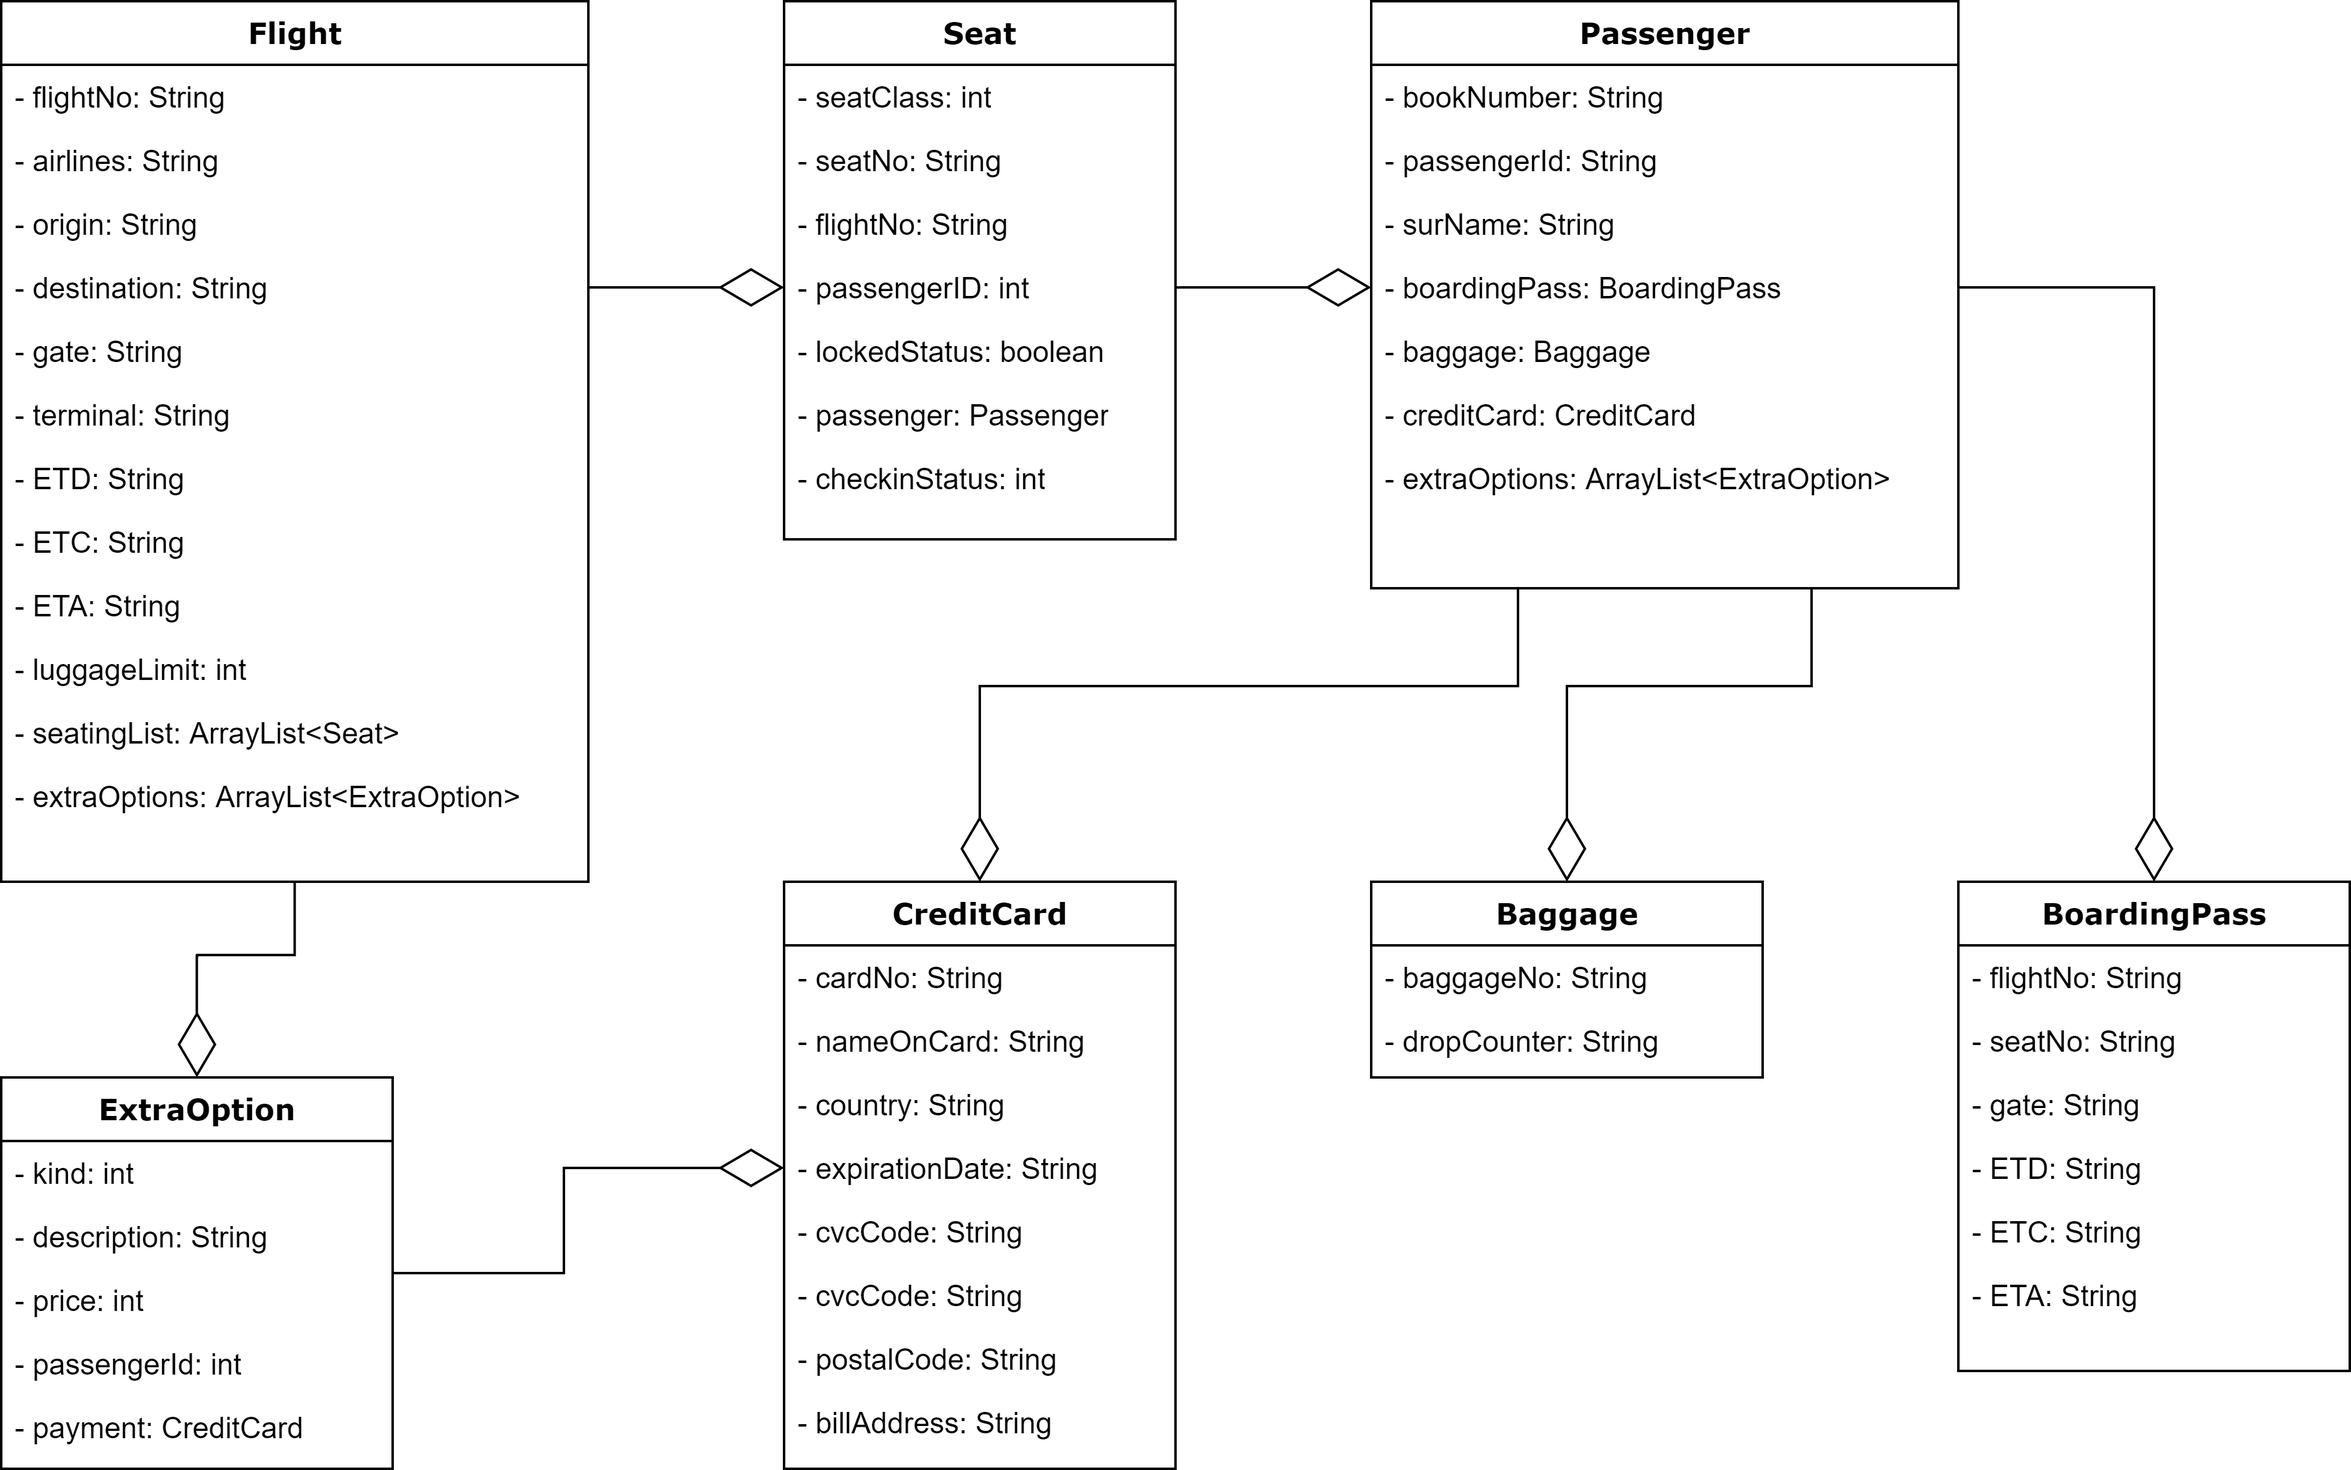
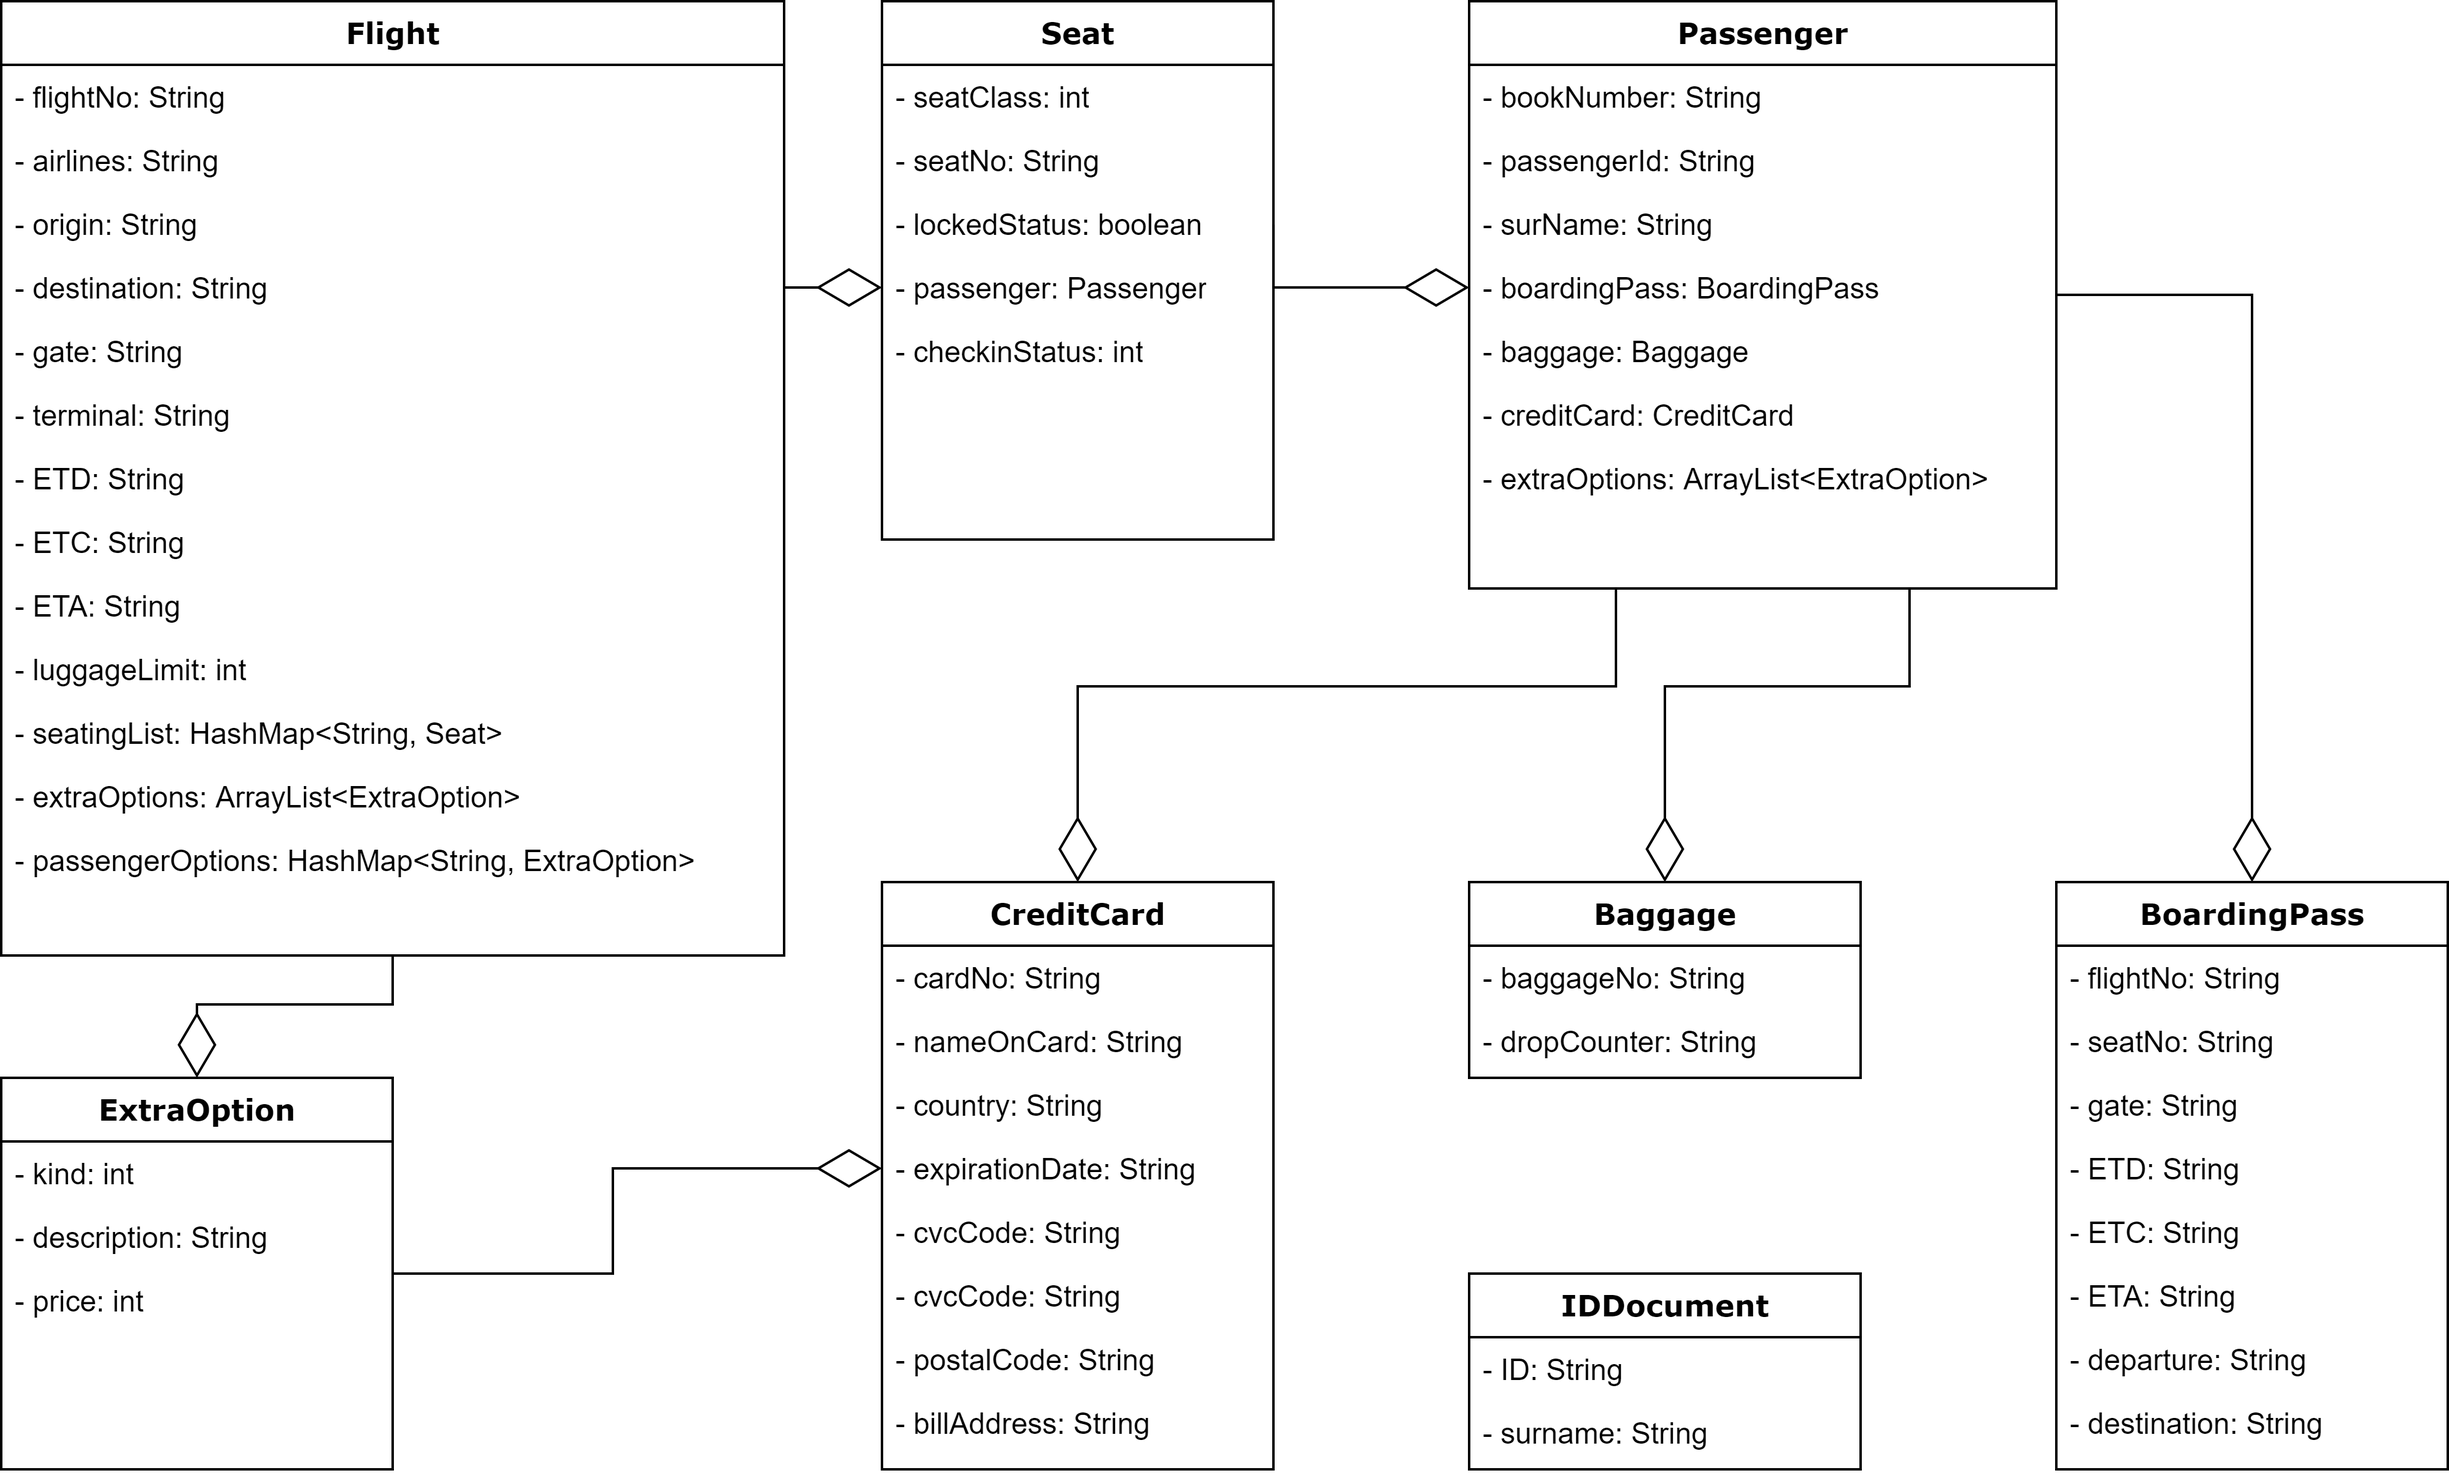
Iteration 2 Modification - On April 16th by Jiacheng Li 1. Modify DataCreation class. 2. Modify Flight class and ExtraOption class.

diff --git a/src/main/java/DataBase/DataCreation/DataCreation.java b/src/main/java/DataBase/DataCreation/DataCreation.java
@@ -15,7 +15,7 @@ import java.util.HashMap;
  *
  * @since April 4th, 2022
  * @author Ruizhe Ou, Jiacheng Li
- * @version 0.2
+ * @version 0.3
  */
 public class DataCreation {
 
@@ -35,6 +35,8 @@ public class DataCreation {
     String[] ETCArr = {"07-09-2022 09:46:00", "06-09-2022 08:46:00", "07-09-2022 08:46:00", "06-09-2022 21:20:00"};
     String[] ETAArr = {"07-09-2022 08:00:00", "06-09-2022 10:00:00", "08-09-2022 09:00:00", "06-09-2022 09:20:00"};
     int[] luggageLimitList = {60, 40, 30, 50, 30};
+    String[] passengerIdArr = {"215200", "215201", "215202", "215203", "215204", "215205", "215206", "215207", "215208", "215209"};
+    HashMap<String, ExtraOption> passengerOptions = new HashMap<>();
 
     // Seating Information
     HashMap<String, Seat> seatingLists = new HashMap<>();
@@ -43,8 +45,17 @@ public class DataCreation {
     ArrayList<ExtraOption> extraOptionLists = new ArrayList<>();
 
     private void creatPassengers(){
+        ArrayList<CreditCard> creditCardArr = new ArrayList<>();
+        creditCardArr.add(new CreditCard("1234 5678 9123 4567"));
+        creditCardArr.add(new CreditCard("1232 5678 9123 4567"));
+        creditCardArr.add(new CreditCard("1134 5678 9123 4567"));
+        creditCardArr.add(new CreditCard("2234 5678 9123 4567"));
+        creditCardArr.add(new CreditCard("4234 5678 9123 4567"));
+        creditCardArr.add(new CreditCard("1634 5678 9123 4567"));
+
+
         for (int i = 0; i < 6; i++){
-            pDB.storePassenger(new Passenger(bookNumberArr[i], pIDArr[i], nameArr[i], new BoardingPass(), new Baggage(), new CreditCard(), new ArrayList<>()));
+            pDB.storePassenger(new Passenger(bookNumberArr[i], pIDArr[i], nameArr[i], new BoardingPass(), new Baggage(), creditCardArr.get(i), new ArrayList<>()));
         }
     }
 
@@ -55,21 +66,21 @@ public class DataCreation {
     public void createSeats() {
         int[] classArr = {2, 2, 1, 1, 0, 0, 0, 0, 0, 0};
         String[] noArr = {"E01", "E02", "E03", "E04", "E05", "E06", "E07", "E08", "E09", "E10"};
-        boolean[] lockStatusArr = {true, false, true, false, true, false, true, true, true, true};
+        boolean[] lockStatusArr = {true, false, true, false, true, false, true, true, true, false};
 
         ArrayList<Passenger> passengerArr = new ArrayList<>();
         passengerArr.add(new Passenger("215200"));
         passengerArr.add(new Passenger());
+        passengerArr.add(new Passenger("215201"));
+        passengerArr.add(new Passenger());
         passengerArr.add(new Passenger("215202"));
         passengerArr.add(new Passenger());
+        passengerArr.add(new Passenger("215203"));
         passengerArr.add(new Passenger("215204"));
+        passengerArr.add(new Passenger("215205"));
         passengerArr.add(new Passenger());
-        passengerArr.add(new Passenger("215206"));
-        passengerArr.add(new Passenger("215207"));
-        passengerArr.add(new Passenger("215208"));
-        passengerArr.add(new Passenger("215209"));
 
-        int[] checkInArr = {0, 1, 0, 1, -1, 1, 0, 0, 1, 1};
+        int[] checkInArr = {0, -1, 0, -1, -1, 1, 0, 0, 1, -1};
 
         for(int i = 0; i < 10; i++){
             this.seatingLists.put(noArr[i], new Seat(
@@ -88,10 +99,10 @@ public class DataCreation {
      *
      */
     public void createOptionLists(){
-        int[] kindArr = {0,1,0,0,1,1,0,1,0,1};
+        int[] kindArr = {0,0,1,1,1,1,1,1,1,1};
         String[] descriptionArr = {
-            "Rice Noodles",
-            "Fried Chicken",
+            "Baby Seat",
+            "Elder Seat",
             "Hot Dogs",
             "British Breakfast",
             "Hamburger",
@@ -102,26 +113,12 @@ public class DataCreation {
             "Salad"
         };
         int[] priceArr = {1,2,3,4,5,6,7,8,9,10};
-        String[] passengerIdArr = {"215200", "215201", "215202", "215203", "215204", "215205", "215206", "215207", "215208", "215209"};
-        ArrayList<CreditCard> creditCardArr = new ArrayList<>();
-        creditCardArr.add(new CreditCard("1234 5678 9123 4567"));
-        creditCardArr.add(new CreditCard("1232 5678 9123 4567"));
-        creditCardArr.add(new CreditCard("1134 5678 9123 4567"));
-        creditCardArr.add(new CreditCard("2234 5678 9123 4567"));
-        creditCardArr.add(new CreditCard("4234 5678 9123 4567"));
-        creditCardArr.add(new CreditCard("1634 5678 9123 4567"));
-        creditCardArr.add(new CreditCard("1934 5678 9123 4567"));
-        creditCardArr.add(new CreditCard("1254 5678 9123 4567"));
-        creditCardArr.add(new CreditCard("1214 5678 9123 4567"));
-        creditCardArr.add(new CreditCard("1124 5678 9123 4567"));
 
         for(int i = 0; i < 10; i++){
             this.extraOptionLists.add(new ExtraOption(
                 kindArr[i],
                 descriptionArr[i],
-                priceArr[i],
-                passengerIdArr[i],
-                creditCardArr.get(i)
+                priceArr[i]
             ));
         }
     }
@@ -131,6 +128,9 @@ public class DataCreation {
      *
      */
     private void createFlights(){
+        for(int j = 0; j < 4; j++){
+            passengerOptions.put(pIDArr[j], extraOptionLists.get(j));
+        }
 
         createOptionLists();
         createSeats();
@@ -148,7 +148,8 @@ public class DataCreation {
                     ETAArr[i],
                     luggageLimitList[i],
                     this.seatingLists,
-                    this.extraOptionLists
+                    this.extraOptionLists,
+                    this.passengerOptions
             ));
         }
     }

diff --git a/src/main/java/Flight/Flight.java b/src/main/java/Flight/Flight.java
@@ -7,7 +7,7 @@ import java.util.*;
  * This is the basic Flight information class
  *
  * @author Jiacheng Li
- * @version 1.3 April 16th, 2022
+ * @version 1.4 April 16th, 2022
  */
 public class Flight implements Serializable{
     /**
@@ -73,13 +73,19 @@ public class Flight implements Serializable{
      * Default Value: empty ArrayList
      */
     private ArrayList<ExtraOption> extraOptions = new ArrayList<>();
+    /**
+     * Records of all passenger-ordered extra options of a certain flight.<br/>
+     * (Key, Value) -> (passengerId, Seat)<br/><br/>
+     * Default Value: empty HashMap
+     */
+    private HashMap<String, ExtraOption> passengerOptions = new HashMap<>();
 
     /**
      * Default constructor with no parameters.
      */
     public Flight(){}
 
-    public Flight(String flightNo, String airlines, String departure, String destination, String gate, String terminal, String ETD, String ETC, String ETA, int luggageLimit, HashMap<String, Seat> seatingList, ArrayList<ExtraOption> extraOptions) {
+    public Flight(String flightNo, String airlines, String departure, String destination, String gate, String terminal, String ETD, String ETC, String ETA, int luggageLimit, HashMap<String, Seat> seatingList, ArrayList<ExtraOption> extraOptions, HashMap<String, ExtraOption> passengerOptions) {
         this.flightNo = flightNo;
         this.airlines = airlines;
         this.departure = departure;
@@ -92,6 +98,7 @@ public class Flight implements Serializable{
         this.luggageLimit = luggageLimit;
         this.seatingList = seatingList;
         this.extraOptions = extraOptions;
+        this.passengerOptions = passengerOptions;
     }
 
     /**
@@ -109,6 +116,7 @@ public class Flight implements Serializable{
     public int getLuggageLimit(){return luggageLimit;}
     public HashMap<String, Seat> getSeatingList() {return seatingList;}
     public ArrayList<ExtraOption> getExtraOptions(){return extraOptions;}
+    public HashMap<String, ExtraOption> getPassengerOptions() {return passengerOptions;}
 
     /**
      * Modifiers of flight
@@ -125,5 +133,6 @@ public class Flight implements Serializable{
     public void setETA(String ETA){this.ETA = ETA;}
     public void setLuggageLimit(int luggageLimit){this.luggageLimit = luggageLimit;}
     public void setSeatingList(HashMap<String, Seat> seatingList) {this.seatingList = seatingList;}
-    public void setExtraOptions(ArrayList<ExtraOption> extraOptions){this.extraOptions = extraOptions;}
+    public void setExtraOptions(ArrayList<ExtraOption> extraOptions) {this.extraOptions = extraOptions;}
+    public void setPassengerOptions(HashMap<String, ExtraOption> passengerOptions) {this.passengerOptions = passengerOptions;}
 }

diff --git a/src/main/java/Flight/ExtraOption.java b/src/main/java/Flight/ExtraOption.java
@@ -28,16 +28,6 @@ public class ExtraOption {
      * Default Value: <b>-1<b/>
      */
     private int price = -1;
-    /**
-     * id number of the ordering passenger.<br/><br/>
-     * Default Value: <b>-1</b>
-     */
-    private String passengerId;
-    /**
-     * Binding credit card payment object of the passenger.<br/><br/>
-     * Default Value: <b>new CreditCard()</b>
-     */
-    private CreditCard payment;
 
     /**
      * Default constructor with no parameters.<br/>
@@ -46,15 +36,11 @@ public class ExtraOption {
 
     public ExtraOption(int kind,
                        String description,
-                       int price,
-                       String passengerId,
-                       CreditCard payment)
+                       int price)
     {
         this.kind = kind;
         this.description = description;
         this.price = price;
-        this.passengerId = passengerId;
-        this.payment = payment;
     }
 
     /**
@@ -63,8 +49,6 @@ public class ExtraOption {
     public int getKind() {return kind;}
     public String getDescription() {return description;}
     public int getPrice() {return price;}
-    public String getPassengerId() {return passengerId;}
-    public CreditCard getPayment() {return payment;}
 
     /**
      * Modifiers of ExtraOption
@@ -72,6 +56,4 @@ public class ExtraOption {
     public void setKind(int kind) {this.kind = kind;}
     public void setDescription(String description) {this.description = description;}
     public void setPrice(int price) {this.price = price;}
-    public void setPassengerId(String passengerId) {this.passengerId = passengerId;}
-    public void setPayment(CreditCard payment) {this.payment = payment;}
 }
